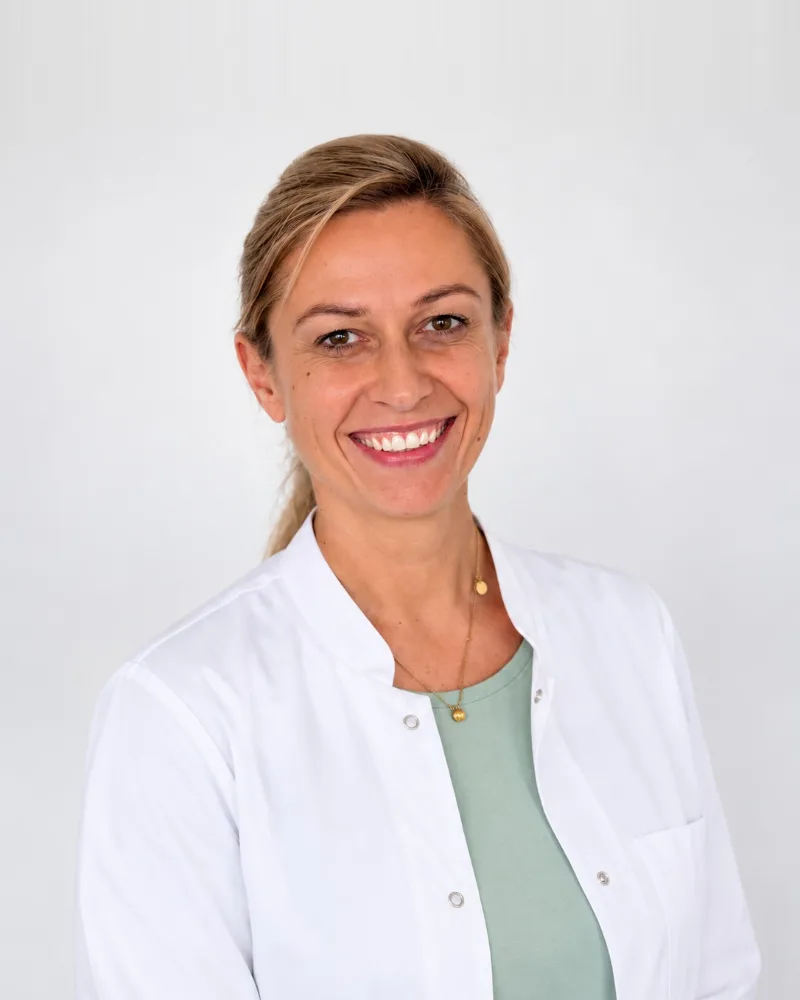
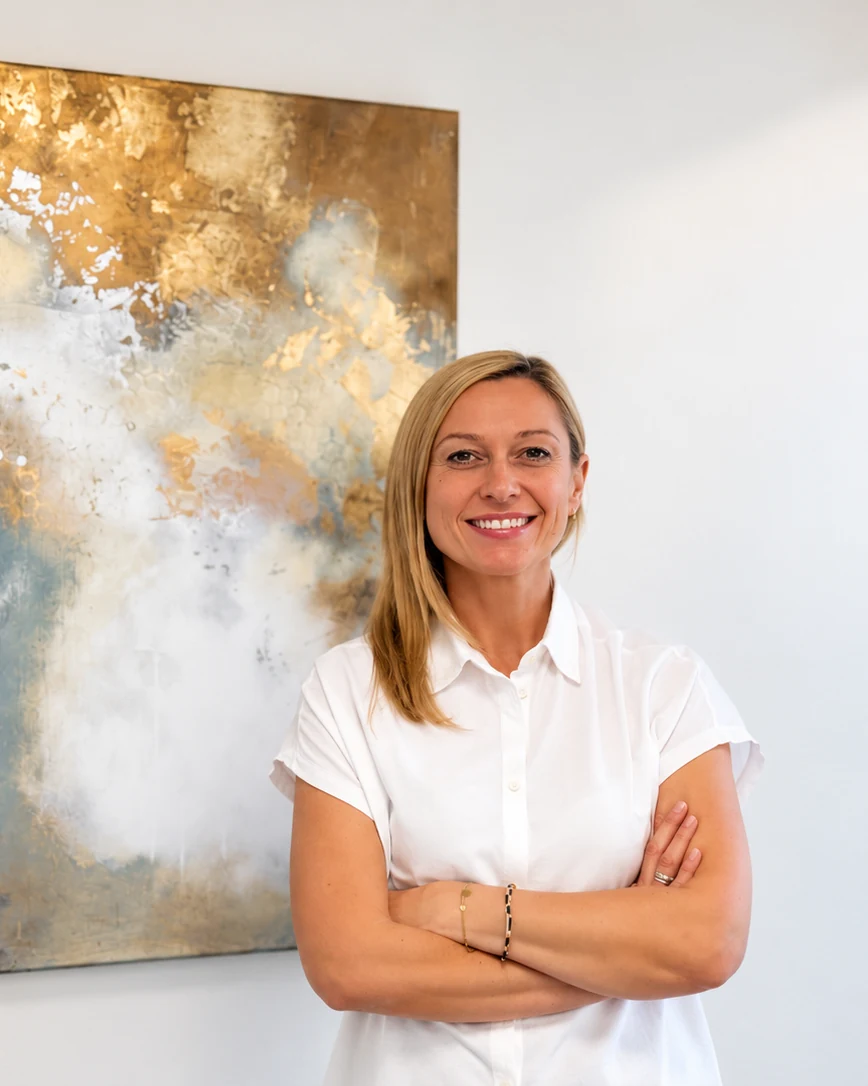
feat(praxis): Yvonnes Antworten vom 01.11. - Telefonzeiten, Datenschutz ohne DSB, Originalporträt im Hero und Über mich

diff --git a/src/praxis.config.ts b/src/praxis.config.ts
@@ -209,7 +209,8 @@ export const praxis = {
    * laufende Praxis — das ist schlimmer als keine Angabe. Beim Umstellen auf
    * den Regelbetrieb gehoert das hier als Erstes geaendert.
    */
-  telefonzeiten: null as Offen<string>,
+  /* Ihre Angabe vom 01.11.2026: die Telefonzeiten entsprechen den Sprechzeiten. */
+  telefonzeiten: 'zu unseren Sprechzeiten',
 
   /* „praxis@gyn-erkens.de darf auf die Seite“ — Yvonne, 05.10.2026. */
   email: 'praxis@gyn-erkens.de',

diff --git a/src/legal/Datenschutz.tsx b/src/legal/Datenschutz.tsx
@@ -31,12 +31,6 @@ export function Datenschutz() {
           , Telefon <Offen was="Telefonnummer">{praxis.telefon.anzeige}</Offen>, E-Mail{' '}
           <Offen was="E-Mail-Adresse">{praxis.email}</Offen>.
         </p>
-        <dl>
-          <dt>Datenschutzbeauftragte Person</dt>
-          <dd>
-            <Offen>{rechtliches.datenschutzbeauftragter}</Offen>
-          </dd>
-        </dl>
       </section>
 
       <section aria-labelledby="hosting">
